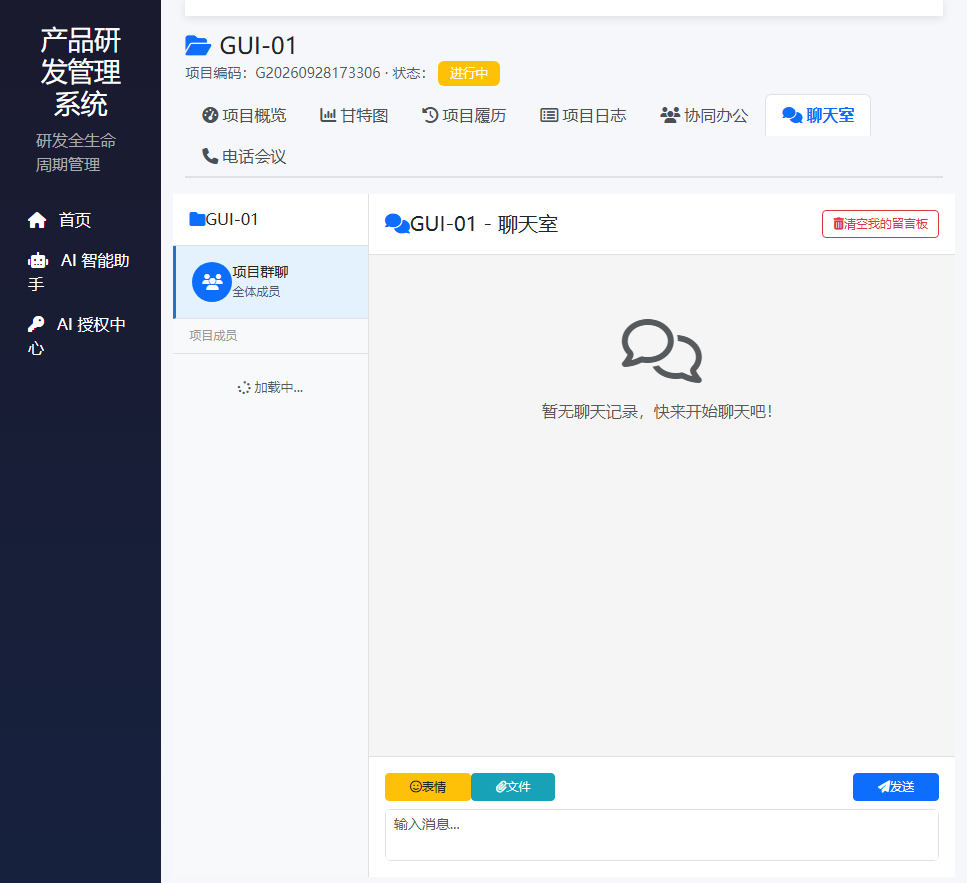
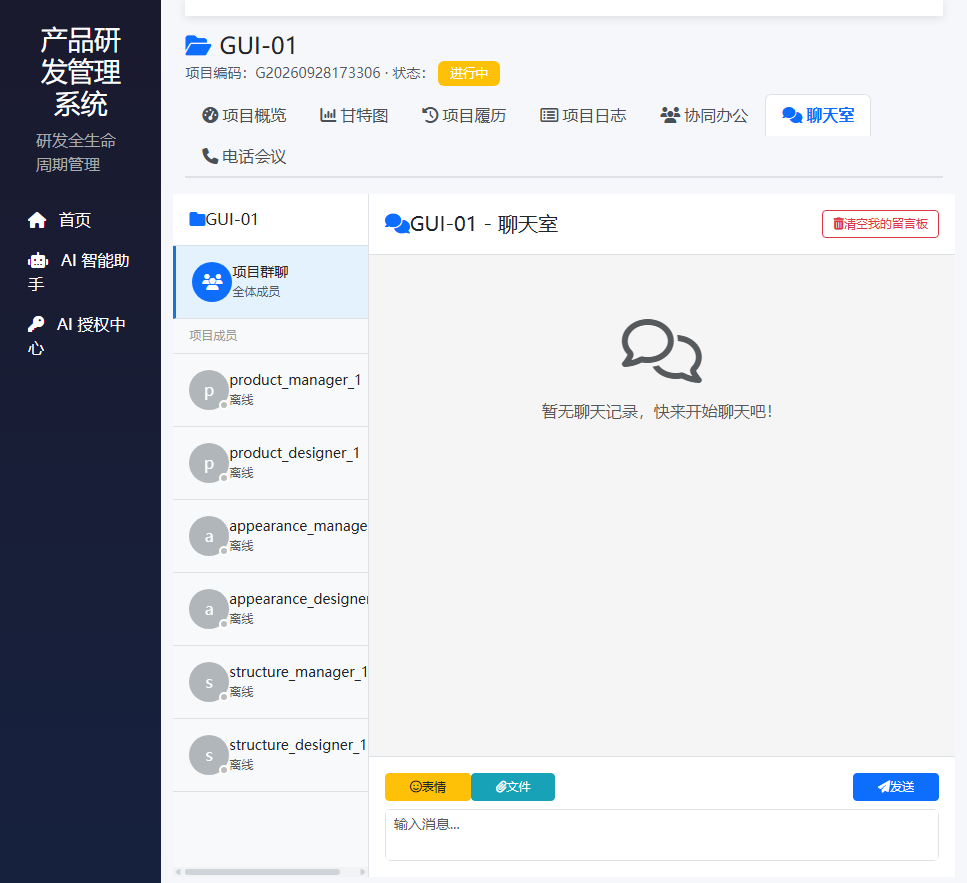
B-03 收尾：聊天室成员接口前端路径补 pm 前缀、成员显示真实姓名

diff --git a/resources/views/pm/messages/index.blade.php b/resources/views/pm/messages/index.blade.php
@@ -366,7 +366,7 @@ document.addEventListener('DOMContentLoaded', function() {
 
 // ==================== 成员列表 ====================
 function loadMembers() {
-    fetch(`/api/project/${PROJECT_ID}/chat/members`)
+    fetch(`/pm/api/project/${PROJECT_ID}/chat/members`)
         .then(res => res.json())
         .then(data => {
             if (data.members) {
@@ -402,13 +402,13 @@ function renderMemberList(members) {
                  id="member-${member.id}"
                  role="button"
                  tabindex="0"
-                 aria-label="与 ${escapeHtml(member.username)} 私聊"
+                 aria-label="与 ${escapeHtml(member.name || member.username)} 私聊"
                  onclick="openPrivateChat(${member.id})"
                  onkeydown="if(event.key==='Enter'||event.key===' ') openPrivateChat(${member.id})"
                  style="cursor: pointer;">
                 <div class="position-relative mr-3">
                     ${member.avatar 
-                        ? `<img src="${escapeHtml(member.avatar)}" class="rounded-circle" alt="${escapeHtml(member.username)}" style="width: 40px; height: 40px; object-fit: cover; ${member.is_online ? '' : 'filter: grayscale(100%); opacity: 0.5;'}">`
+                        ? `<img src="${escapeHtml(member.avatar)}" class="rounded-circle" alt="${escapeHtml(member.name || member.username)}" style="width: 40px; height: 40px; object-fit: cover; ${member.is_online ? '' : 'filter: grayscale(100%); opacity: 0.5;'}">`
                         : `<div class="rounded-circle bg-secondary d-flex align-items-center justify-content-center text-white"
                               style="width: 40px; height: 40px; font-size: 16px; ${member.is_online ? '' : 'opacity: 0.5;'}">
                               ${escapeHtml(member.username.charAt(0))}
@@ -417,7 +417,7 @@ function renderMemberList(members) {
                     <span class="online-dot ${onlineClass}"></span>
                 </div>
                 <div class="flex-grow-1 min-width-0">
-                    <div class="font-weight-bold" style="font-size: 14px;">${escapeHtml(member.username)}</div>
+                    <div class="font-weight-bold" style="font-size: 14px;">${escapeHtml(member.name || member.username)}</div>
                     <div class="text-muted" style="font-size: 12px;">${onlineText}</div>
                 </div>
             </div>`;

diff --git a/resources/views/pm/messages/private.blade.php b/resources/views/pm/messages/private.blade.php
@@ -276,7 +276,7 @@ function sendPrivateMessage(event) {
     const submitBtn = document.querySelector('#private-chat-form button[type="submit"]');
     submitBtn.disabled = true;
     
-    fetch(`/api/project/${PROJECT_ID}/chat/send`, {
+    fetch(`/pm/api/project/${PROJECT_ID}/chat/send`, {
         method: 'POST',
         body: formData,
         headers: {
